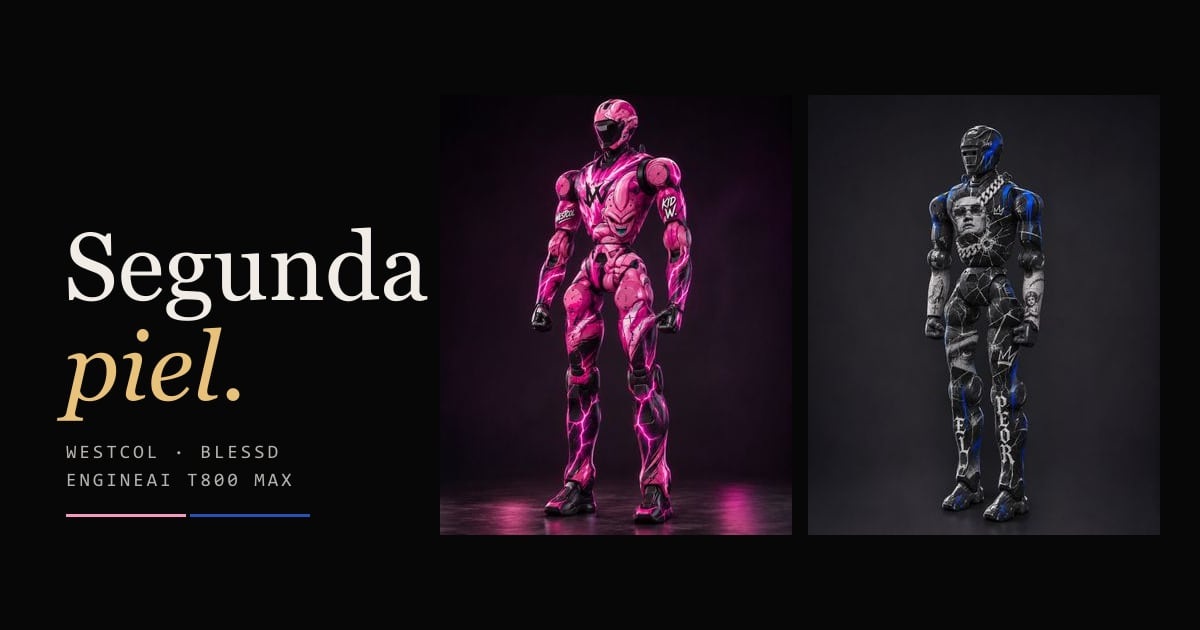
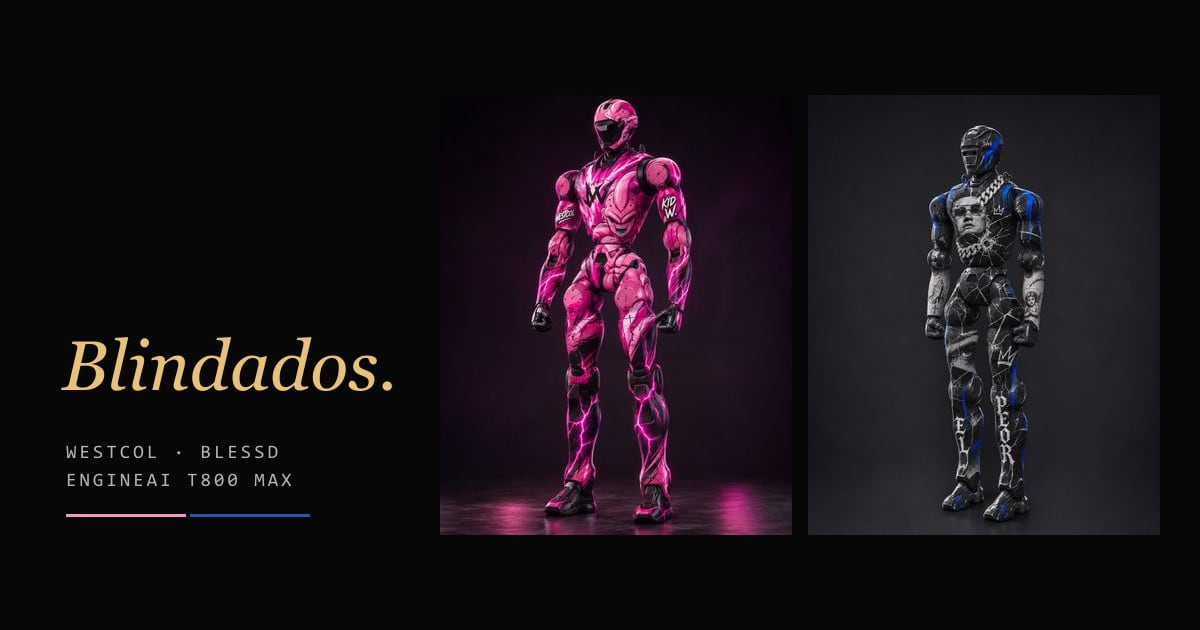
Renombrar a "Blindados" y quitar la galería de renders
- El nombre pasa de "Segunda piel" a "Blindados" en portada, intro,
  cierre, cabecera, ticker, título e imagen para redes.
- Fuera la galería de imágenes de La piel y sus renders.

Changed region(s): [[0.0308, 0.3619, 0.37, 0.6635]]

diff --git a/index.html b/index.html
@@ -3,13 +3,13 @@
 <head>
 <meta charset="utf-8">
 <meta name="viewport" content="width=device-width, initial-scale=1, viewport-fit=cover">
-<title>Segunda Piel · Westcol y Blessd · EngineAI T800 Max</title>
+<title>Blindados · Westcol y Blessd · EngineAI T800 Max</title>
 <meta name="description" content="Los robots EngineAI T800 Max de Westcol y Blessd, forrados en PPF. Una piel diseñada para cada dueño.">
 <meta name="robots" content="noindex">
 <meta name="theme-color" content="#070708">
 <link rel="icon" type="image/svg+xml" href="./favicon.svg">
 <meta property="og:type" content="website">
-<meta property="og:title" content="Segunda piel · Westcol × Blessd">
+<meta property="og:title" content="Blindados · Westcol × Blessd">
 <meta property="og:description" content="Los robots EngineAI T800 Max de Westcol y Blessd, forrados en PPF.">
 <meta property="og:image" content="./media/og.jpg?v=1">
 <meta property="og:image:width" content="1200">
@@ -26,7 +26,7 @@
 <div id="tags"></div>
 
 <header id="top">
-  <div class="brand"><span>SEGUNDA PIEL<br><b>ROBOTS · PPF</b></span></div>
+  <div class="brand"><span>BLINDADOS<br><b>ROBOTS · PPF</b></span></div>
   <div class="hintbar">→ O CLIC PARA AVANZAR &nbsp;·&nbsp; ← ATRÁS &nbsp;·&nbsp; F PANTALLA COMPLETA &nbsp;·&nbsp; M SONIDO</div>
   <div class="right">
     <button id="snd" aria-label="Sonido" aria-pressed="true"><i></i><i></i><i></i><i></i></button>
@@ -38,7 +38,7 @@
 <section id="boot" aria-label="Portada">
   <div class="cover">
     <div class="lockup"><span class="lk">ENGINEAI T800 MAX · PPF</span></div>
-    <h1 aria-label="Segunda piel">Segunda <em>piel.</em></h1>
+    <h1 aria-label="Blindados"><em>Blindados.</em></h1>
     <div class="who">WESTCOL · BLESSD</div>
     <div class="boot-meter" role="progressbar" aria-label="Cargando"><div id="boot-bar"><i></i></div><span id="boot-pct">000</span></div>
     <div id="boot-log" aria-live="polite"></div>
@@ -95,11 +95,6 @@
       <svg class="dg dg-m" viewBox="0 0 360 560" role="img" aria-labelledby="piel-capas-m-title piel-capas-m-desc" focusable="false"><title id="piel-capas-m-title">Las cinco capas de la piel, de la carcasa al exterior</title><desc id="piel-capas-m-desc">Cinco capas apiladas, de abajo hacia arriba: Carcasa original del robot: intacta debajo de todo; Adhesivo: se instala y se retira sin dañar la carcasa; Color o impreso: el diseño de cada dueño, dentro de la piel; Película de poliuretano: absorbe roces y golpes del día a día; Capa superior autorregenerable: las rayas finas se cierran con calor.</desc><g class="dg-r" style="--d:1200ms"><text x="8" y="40" class="t-m t-mu">EXTERIOR ↑</text></g><g class="pl" style="--asm:0px;--d:240ms"><polygon points="12,488 88,526 88,534 12,496" fill="#131213" stroke="rgba(241,237,230,.32)"/><polygon points="88,526 164,488 164,496 88,534" fill="#0e0e0f" stroke="rgba(241,237,230,.32)"/><polygon points="12,488 88,450 164,488 88,526" fill="#1e1e1e" stroke="rgba(241,237,230,.32)"/></g><g class="pl" style="--asm:84px;--d:320ms"><polygon points="12,396 88,434 88,438 12,400" fill="#131213" stroke="rgba(241,237,230,.32)"/><polygon points="88,434 164,396 164,400 88,438" fill="#0e0e0f" stroke="rgba(241,237,230,.32)"/><polygon points="12,396 88,358 164,396 88,434" fill="#1e1e1e" stroke="rgba(241,237,230,.32)"/></g><g class="pl" style="--asm:168px;--d:400ms"><polygon points="12,304 88,342 88,346 12,308" fill="#28251d" stroke="#e8c27a"/><polygon points="88,342 164,304 164,308 88,346" fill="#24201a" stroke="#e8c27a"/><polygon points="12,304 88,266 164,304 88,342" fill="#322e27" stroke="#e8c27a"/></g><g class="pl" style="--asm:252px;--d:480ms"><polygon points="12,212 88,250 88,254 12,216" fill="#131213" stroke="rgba(241,237,230,.32)"/><polygon points="88,250 164,212 164,216 88,254" fill="#0e0e0f" stroke="rgba(241,237,230,.32)"/><polygon points="12,212 88,174 164,212 88,250" fill="#1e1e1e" stroke="rgba(241,237,230,.32)"/></g><g class="pl" style="--asm:336px;--d:560ms"><polygon points="12,120 88,158 88,162 12,124" fill="#211b1e" stroke="rgba(241,237,230,.32)"/><polygon points="88,158 164,120 164,124 88,162" fill="#1c171a" stroke="rgba(241,237,230,.32)"/><polygon points="12,120 88,82 164,120 88,158" fill="#2b2628" stroke="rgba(241,237,230,.32)"/></g><g class="dg-r" style="--d:1840ms"><circle cx="164" cy="488" r="2" fill="#f1ede6"/><line x1="168" y1="488" x2="180" y2="488" stroke="rgba(241,237,230,.62)"/><text x="188" y="474" class="t-n t-14">Carcasa original</text><text x="188" y="492" class="t-n t-14">del robot</text><text x="188" y="512" class="t-m t-mu t-10">INTACTA DEBAJO DE TODO.</text></g><g class="dg-r" style="--d:1680ms"><circle cx="164" cy="396" r="2" fill="#f1ede6"/><line x1="168" y1="396" x2="180" y2="396" stroke="rgba(241,237,230,.62)"/><text x="188" y="384" class="t-n t-14">Adhesivo</text><text x="188" y="404" class="t-m t-mu t-10">SE INSTALA Y SE RETIRA</text><text x="188" y="418" class="t-m t-mu t-10">SIN DAÑAR LA CARCASA.</text></g><g class="dg-r" style="--d:1520ms"><circle cx="164" cy="304" r="2" fill="#e8c27a"/><line x1="168" y1="304" x2="180" y2="304" stroke="rgba(241,237,230,.62)"/><text x="188" y="292" class="t-n t-14 t-gold">Color o impreso</text><text x="188" y="312" class="t-m t-mu t-10">EL DISEÑO DE CADA DUEÑO,</text><text x="188" y="326" class="t-m t-mu t-10">DENTRO DE LA PIEL.</text></g><g class="dg-r" style="--d:1360ms"><circle cx="164" cy="212" r="2" fill="#f1ede6"/><line x1="168" y1="212" x2="180" y2="212" stroke="rgba(241,237,230,.62)"/><text x="188" y="191" class="t-n t-14">Película de</text><text x="188" y="209" class="t-n t-14">poliuretano</text><text x="188" y="229" class="t-m t-mu t-10">ABSORBE ROCES Y GOLPES</text><text x="188" y="243" class="t-m t-mu t-10">DEL DÍA A DÍA.</text></g><g class="dg-r" style="--d:1200ms"><circle cx="164" cy="120" r="2" fill="#f1ede6"/><line x1="168" y1="120" x2="180" y2="120" stroke="rgba(241,237,230,.62)"/><text x="188" y="99" class="t-n t-14">Capa superior</text><text x="188" y="117" class="t-n t-14">autorregenerable</text><text x="188" y="137" class="t-m t-mu t-10">LAS RAYAS FINAS SE</text><text x="188" y="151" class="t-m t-mu t-10">CIERRAN CON CALOR.</text></g></svg>
     </div><!--/piel-capas-->
 
-    <div class="sec rv">
-      <h3>Cada piel, <em>de frente y de espalda.</em></h3>
-      <p class="lead">Toca cualquier imagen para verla en tamaño completo.</p>
-      <div id="galeria"></div>
-    </div>
 
     <div class="sec rv despiece">
       <h3>247 paneles. <em>Cada uno con su piel.</em></h3>
@@ -158,7 +153,7 @@
 
 <section id="intro" aria-hidden="true">
   <div class="io-bars"><i></i><i></i></div>
-  <div id="io-top">WESTCOL × BLESSD &nbsp;·&nbsp; SEGUNDA PIEL</div>
+  <div id="io-top">WESTCOL × BLESSD &nbsp;·&nbsp; BLINDADOS</div>
   <div class="io-c"><div id="io-logo" class="io-logo"></div><h2 id="io-name" class="io-name"></h2><div id="io-sub" class="io-sub"></div></div>
   <button id="io-skip">SALTAR INTRO →</button>
 </section>

diff --git a/src/main.js b/src/main.js
@@ -1,4 +1,4 @@
-// Segunda piel
+// Blindados
 // Westcol y Blessd sobre el EngineAI T800 Max.
 import './fuentes.js';
 import './styles.css';
@@ -648,13 +648,6 @@ function pintarLB() {
 }
 function moverLB(d) { LB.i = (LB.i + d + LB.list.length) % LB.list.length; pintarLB(); sfx.hover(); }
 function cerrarLB() { const el = $('#lightbox'); el.classList.remove('show'); el.setAttribute('aria-hidden', 'true'); lbFoco?.focus?.(); }
-function armarGaleria() {
-  $('#galeria').innerHTML = ARTISTAS.map((a, i) => {
-    const ims = imagenesDe(a); const c = a.conceptos[0]?.acento || a.acento;
-    return ims.length ? `<div class="gal-a"><div class="gal-h" style="--c:${c}">${logoHTML(a)}<span>${a.nombre}</span></div><div class="gal-g">${ims.map((m, k) => `<button data-a="${i}" data-k="${k}" style="--c:${c}" aria-label="Ver ${esc(m.cap)}"><img loading="lazy" decoding="async" width="480" height="600" src="${thumb(m.src)}" alt="${esc(m.cap)}"><small>${esc(m.cap.split(' · ').slice(1).join(' · '))}</small></button>`).join('')}</div></div>` : '';
-  }).join('');
-  $$('#galeria button').forEach(b => b.onclick = () => abrirLB(imagenesDe(ARTISTAS[+b.dataset.a]), +b.dataset.k));
-}
 
 
 // canción oficial: la API de YouTube solo se carga al entrar al primer capítulo
@@ -800,7 +793,7 @@ function wireUI() {
   $$('#chapters a').forEach(a => a.onclick = e => { e.preventDefault(); goCh(+a.dataset.i); });
   $('#jump').innerHTML = ARTISTAS.map(a => `<button style="--c:${a.conceptos[0]?.acento || a.acento}">${a.nombre} →</button>`).join('');
   $$('#jump button').forEach((b, i) => b.onclick = () => goCh(1 + i));
-  const tk = ['SEGUNDA PIEL', ...ARTISTAS.map(a => `${a.nombre} — ${a.conceptos[0]?.nombre || 'EN DISEÑO'}`), MODELO.nombre, 'PELÍCULA DE PROTECCIÓN, PANEL POR PANEL', 'NUNCA SE TAPA UN SENSOR', 'DISEÑO SOBRE EL MODELO OFICIAL'].join('  ·  ') + '  ·  ';
+  const tk = ['BLINDADOS', ...ARTISTAS.map(a => `${a.nombre} — ${a.conceptos[0]?.nombre || 'EN DISEÑO'}`), MODELO.nombre, 'PELÍCULA DE PROTECCIÓN, PANEL POR PANEL', 'NUNCA SE TAPA UN SENSOR', 'DISEÑO SOBRE EL MODELO OFICIAL'].join('  ·  ') + '  ·  ';
   $('#ticker-in').textContent = tk + tk + tk;
 
   let down = null, pend = null;
@@ -885,7 +878,7 @@ function openPiel() {
 // ================= PORTADA =================
 const BOOT_LINES = ['CARGANDO MODELO OFICIAL ' + MODELO.nombre, 'PANELES Y ZONAS SIN FORRAR', 'PIELES DE WESTCOL · BLESSD', 'LISTO'];
 async function boot() {
-  $('.cover h1').innerHTML = [...'Segunda '].map(c => `<span class="ch">${c === ' ' ? '&nbsp;' : c}</span>`).join('') + '<em>' + [...'piel.'].map(c => `<span class="ch">${c}</span>`).join('') + '</em>';
+  $('.cover h1').innerHTML = '<em>' + [...'Blindados.'].map(c => `<span class="ch">${c}</span>`).join('') + '</em>';
   gsap.fromTo('.cover h1 .ch', { yPercent: 110, opacity: 0 }, { yPercent: 0, opacity: 1, duration: 1.2, stagger: 0.04, ease: 'expo.out', delay: 0.05 });
   gsap.fromTo(['.lockup > *', '.who'], { opacity: 0, y: 16 }, { opacity: 1, y: 0, duration: 1.2, stagger: 0.15, ease: 'expo.out', delay: 0.3 });
   const log = $('#boot-log'); const bar = $('#boot-bar i'); const pct = $('#boot-pct');
@@ -899,7 +892,7 @@ async function boot() {
   }, 110);
   try { await fontsP; await construir(); }
   catch (e) { clearInterval(tick); log.innerHTML = '<div class="err">No se pudo cargar el modelo 3D. Revisa tu conexión y recarga la página.</div>'; console.error(e); return; }
-  buildLabels(); buildTags(); wireUI(); armarGaleria();
+  buildLabels(); buildTags(); wireUI();
   $('#lightbox .lb-x').onclick = cerrarLB; $('#lightbox .lb-p').onclick = () => moverLB(-1); $('#lightbox .lb-n').onclick = () => moverLB(1); $('#lightbox').addEventListener('click', e => { if (e.target.id === 'lightbox') cerrarLB(); });
   clearInterval(tick); const d = document.createElement('div'); d.textContent = BOOT_LINES[BOOT_LINES.length - 1]; log.appendChild(d);
   bar.style.transform = 'scaleX(1)'; pct.textContent = '100';
@@ -947,7 +940,7 @@ function intro() {
     sfx.boom(); setAcc('#e8c27a'); backdrop('#e8c27a', 0.22);
     stands.forEach(s => gsap.to(s.spot, { intensity: 4, duration: 0.8 }));
     gsap.to(key, { intensity: k0, duration: 1.6 }); gsap.to(rim1, { intensity: r0, duration: 1.6 }); gsap.to(scene, { environmentIntensity: h0, duration: 1.6 });
-    $('#io-logo').innerHTML = ''; palabras($('#io-name'), 'Segunda piel.'); $('#io-sub').textContent = 'WESTCOL × BLESSD · ' + MODELO.nombre;
+    $('#io-logo').innerHTML = ''; palabras($('#io-name'), 'Blindados.'); $('#io-sub').textContent = 'WESTCOL × BLESSD · ' + MODELO.nombre;
     gsap.fromTo('.io-c', { opacity: 0, y: 30 }, { opacity: 1, y: 0, duration: 0.8, ease: 'expo.out' });
   }, tEnd)
     .to(camera.position, { x: -0.55, y: 1.15, z: 5.4, duration: 2.6, ease: 'power3.inOut' }, tEnd)

diff --git a/src/cierre.js b/src/cierre.js
@@ -1,4 +1,4 @@
-/* Cierre animado: los hilos de color de Westcol y Blessd convergen en "Segunda piel." */
+/* Cierre animado: los hilos de color de Westcol y Blessd convergen en "Blindados." */
 import { gsap } from 'gsap';
 import './cierre.css';
 
@@ -181,7 +181,7 @@ export function mostrarCierre(contenedor, { acentos = ['#F4A3C4', '#2651B5'], no
     contenedor.innerHTML = '';
     const root = document.createElement('div');
     root.className = 'cz';
-    const letras = 'Segunda piel.'.split('').map((c) =>
+    const letras = 'Blindados.'.split('').map((c) =>
       c === ' ' ? '<span class="cz-chm" style="width:.28em"><span class="cz-ch">&nbsp;</span></span>'
         : `<span class="cz-chm"><span class="cz-ch">${c}</span></span>`).join('');
     // cuatro hilos: los dos colores, cada uno desde dos esquinas
@@ -191,9 +191,9 @@ export function mostrarCierre(contenedor, { acentos = ['#F4A3C4', '#2651B5'], no
       <div class="cz-vig"></div>
       <div class="cz-stage">
         <p class="cz-duo"><b style="--c:${colores[0]}">${nombres[0]}</b><i>×</i><b style="--c:${colores[1]}">${nombres[1]}</b></p>
-        <h2 class="cz-h1" aria-label="Segunda piel.">
+        <h2 class="cz-h1" aria-label="Blindados.">
           <span class="cz-h1-base" aria-hidden="true">${letras}</span>
-          <span class="cz-h1-shine" aria-hidden="true">Segunda piel.</span>
+          <span class="cz-h1-shine" aria-hidden="true">Blindados.</span>
         </h2>
         <div class="cz-rule" aria-hidden="true"><i></i><i></i></div>
         <p class="cz-m1">${sub}</p>

diff --git a/README.md b/README.md
@@ -1,4 +1,4 @@
-# Segunda piel · Westcol × Blessd
+# Blindados · Westcol × Blessd
 
 Experiencia 3D sobre dos robots **EngineAI T800 Max** forrados en película PPF. Está construida con Vite, three.js y GSAP.
 
